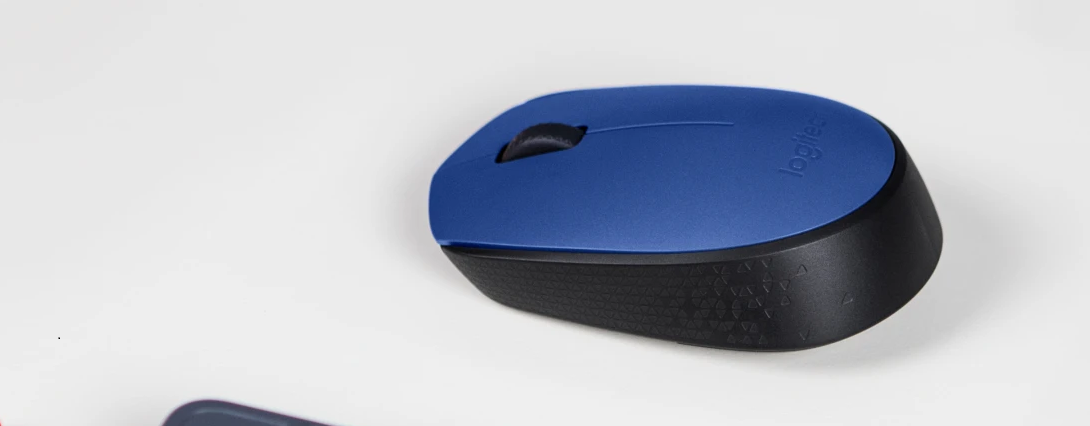
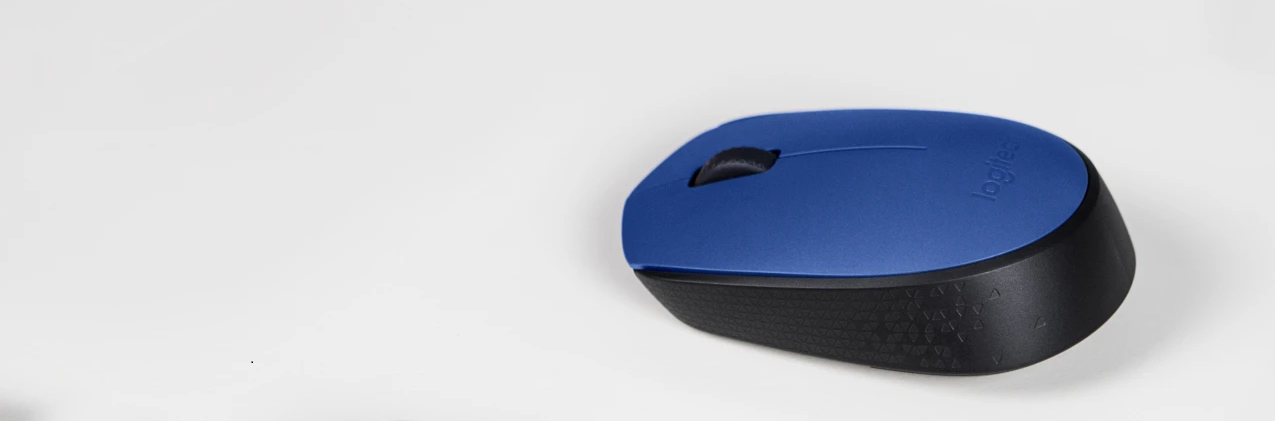
Update body-pertama_2

diff --git a/stylesheet.css b/stylesheet.css
@@ -25,14 +25,16 @@ li {
   margin: 0 auto;
 }
 
+/*body-pertama*/
 .body-pertama{
   background-image: url("\mouse-image2.png");
-  height: 500px;
-  background-size: cover;
+  height: 550px;
   text-align: left;
-  padding: 150px 0 50px 0;
+  padding: 150px 0 70px 0;
+  position: relative;
+  background-position: 60% 50%;
+  background-size: cover;
 }
-
 .body-pertama h1{
   font-size: 65px;
   margin-bottom: 5px;
@@ -52,16 +54,17 @@ li {
   color: rgb(255, 254, 254);
   display: inline-block;
   background-color: rgb(31, 60, 143);
-  padding: 10px 20px;
+  padding: 8px 15px;
   border: 2px solid rgb(31, 60, 143);
   cursor: pointer;
+  margin: 10px 0 10px 0;
 }
 .btn-price:hover{
   background-color: rgb(235 235 235);
   color: rgb(31, 60, 143);
   transition: 0.3s;
 }
-
+/*akhir body-pertama*/
 
 /* footer */
 .footer {

diff --git a/index.html b/index.html
@@ -19,10 +19,10 @@
     <!-- Silakan isi body 1 disini -->
     <div class="body-pertama">
       <div class="container">
-        <h1>RUBY-B25</h1>
+        <h1>RUBYB25</h1>
         <h2>Wireless Mouse</h2>
         <p>Presisi dan kinerja tanpa bandingan yang ideal untuk analis, kreator, pembuat kode, dan siapa pun yang memiliki kebutuhan alur kerja yang sangat spesifik.</p>
-        <a class="btn-price" href="#">Rp.100.000 BELI</a>
+        <a class="btn-price" href="#">BELI SEKARANG</a>
       </div>
     </div>
     <!-- akhir dari body 1 -->
